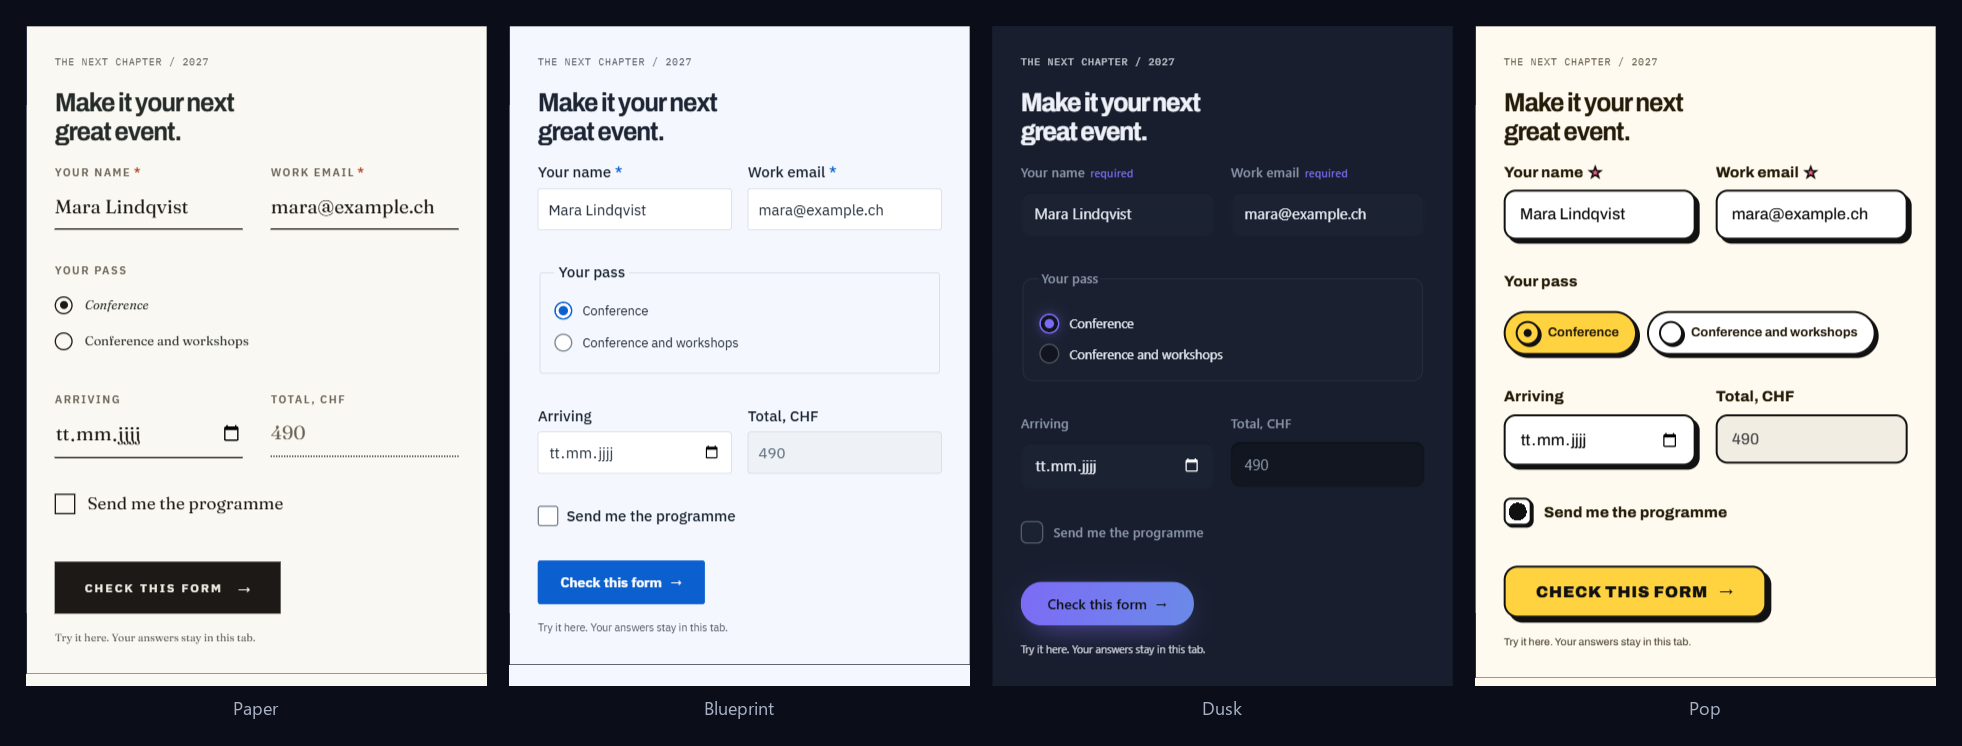
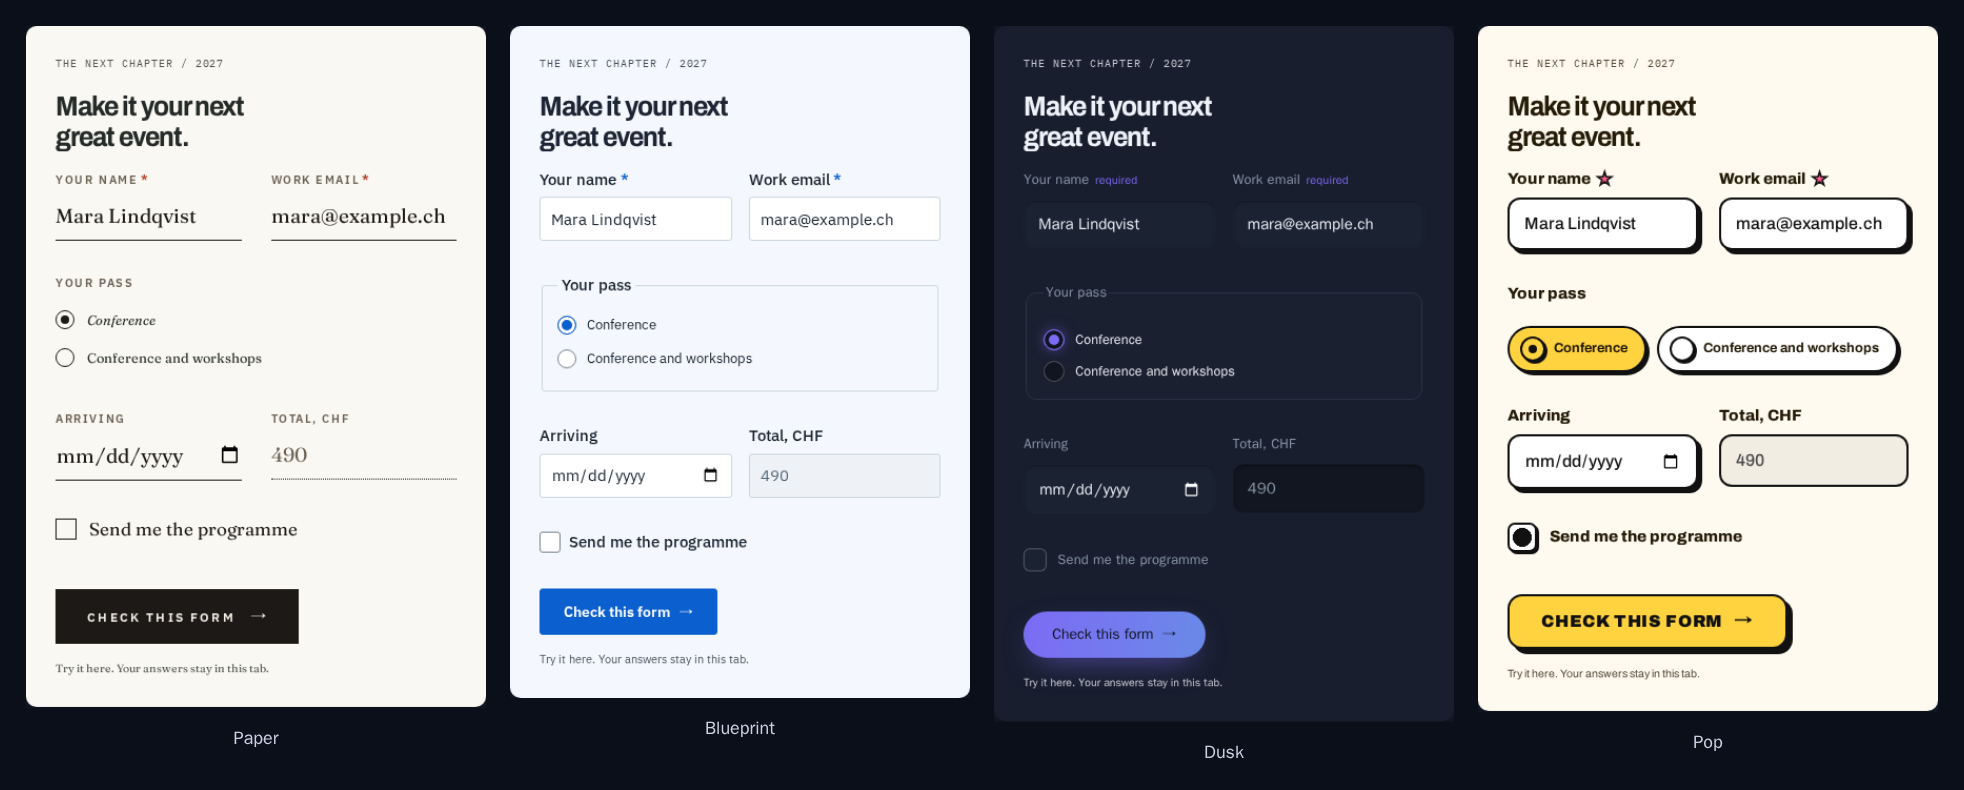
The README's images and features are 0.5's (#245)
The admin and theme images were from 2026-09-28: the admin had none of the
tabs it has now and no examples, and every date field in both read the
browser's German format. Retaken in English: the admin from a local stack with
a conference registration and its examples, the four themes from formancy.ai's
landing page, the landing page from the live site.

The feature list names what 0.5 adds: models through the relay or the server
for edits, translations and examples, the renderers' words in the reader's
language, and nothing loaded from another host.

diff --git a/README.md b/README.md
@@ -105,7 +105,7 @@ type into the form.
 ### Add a field. Set a rule. See it work.
 
 <p align="center">
-  <img src="./docs/images/readme/builder.png" alt="The self-hosted admin editing a conference registration: the structure tree with a nested group and a repeater, a live two-column preview with a grid of colleagues and a calculated total, and the property panel for the selected field" width="100%" />
+  <img src="./docs/images/readme/builder.png" alt="The self-hosted admin editing a conference registration: the structure tree with a nested group and a repeater, a live two-column preview with a grid of colleagues and a calculated total, and beside it the form's examples, all holding, above the property panel for the selected field" width="100%" />
 </p>
 
 A real registration form, open in the admin: a group of attendee details, a
@@ -115,8 +115,10 @@ colleagues on one invoice, a file and a total the engine calculates.
 Add and organise fields in the structure tree, see the form in the live preview,
 and edit labels, validation and other settings in the property panel — each with
 a sentence saying what it does to the data. Arrange fields side by side or into
-sections by drag or by keyboard. The admin reopens published forms and reports
-which changes would invalidate the submissions you already have.
+sections by drag or by keyboard. Above the properties, the form's own examples run
+after every edit, and a publish names any it would stop holding. The admin reopens
+published forms and reports which changes would invalidate the submissions you
+already have.
 
 ### Click an answer. Watch the form adapt.
 
@@ -200,12 +202,21 @@ would be submitted. Switch language or theme without reloading.
   a phone number is typed and stores `5551234567`. Where a typed, deleted or pasted
   character lands is decided once for both renderers, and the server refuses an answer
   that does not fill the mask, because the engine does.
-- **AI-assisted authoring.** Describe a form in the builder, or give your coding
-  agent the MCP tools to author and validate a form definition. A self-hosted server can
-  hold the model — Claude, OpenAI's models or Grok, the operator's choice — with the key on
+- **AI-assisted authoring.** Describe a change in the builder, have a model translate
+  what a language is missing or draft examples from what you say the form should do —
+  every answer checked, diffed and reviewed before it lands — or give your coding agent
+  the MCP tools to author and validate a form definition. On formancy.ai you carry each
+  request to your own Claude and paste the answer back; a self-hosted server can hold the
+  model instead — Claude, OpenAI's models or Grok, the operator's choice — with the key on
   the server rather than in a browser.
+- **Every word in the reader's language.** The questions come from the form's own
+  catalogue, and the renderers' own words — Next, Submit, a row's buttons, what a field
+  announces while a file is sent — follow them, in English, German or French, or a
+  language you add a message at a time.
 - **No third party in the loop.** Spam protection is proof of work computed in
-  the visitor's browser and verified with your own key, not a captcha service.
+  the visitor's browser and verified with your own key, not a captcha service. formancy.ai
+  and the admin load their fonts and editor from themselves, and a browser test fails the
+  site on any request to another host.
 - **Apache-2.0, all of it.** The spec, engine, renderers, builder and backend.
 
 ## Start from a template
@@ -294,7 +305,8 @@ stores the submitted answers. These pieces share the same form model:
 packages/spec           schema types, JSON Schema, canonical hash, diffing,
                         i18n and layout resolution
 packages/expressions    CEL parse/check/compile/evaluate + deterministic metering
-packages/core           the headless reactive engine (rules, rows, wizard, a11y ids)
+packages/core           the headless reactive engine (rules, rows, wizard, a11y ids),
+                        and the renderers' words in each language (core/words)
 packages/react          React binding: hooks, unstyled components, error summary
 packages/angular        Angular binding: signals over the same protocol, zoneless
 packages/conformance    the behaviour + accessibility contract, published so another
